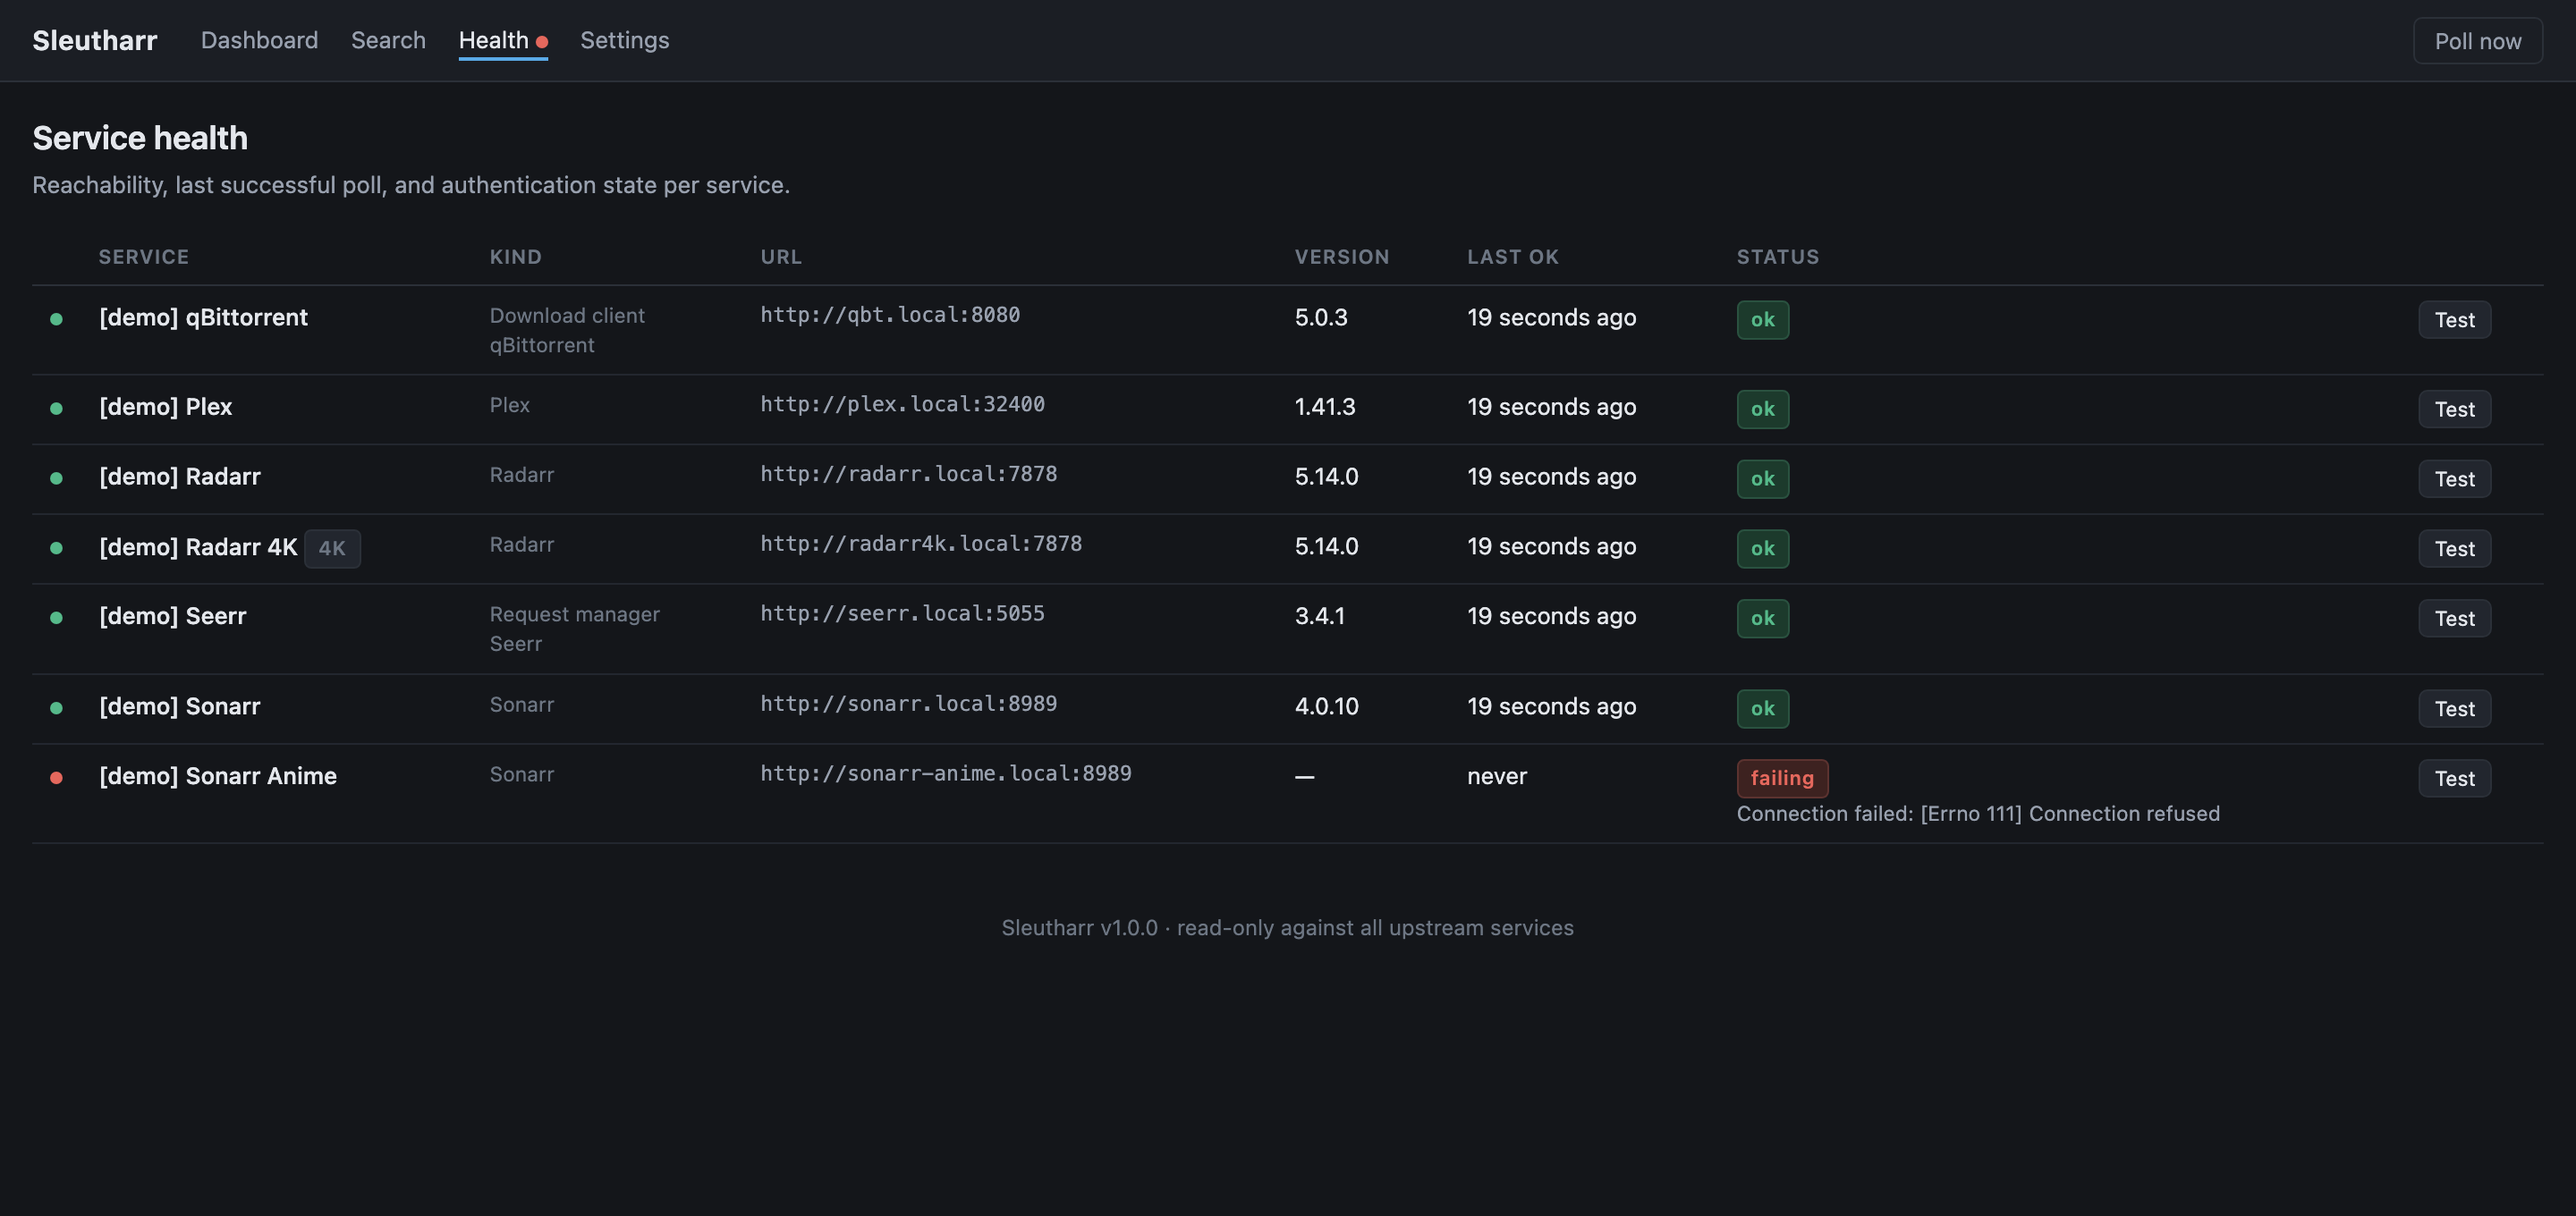
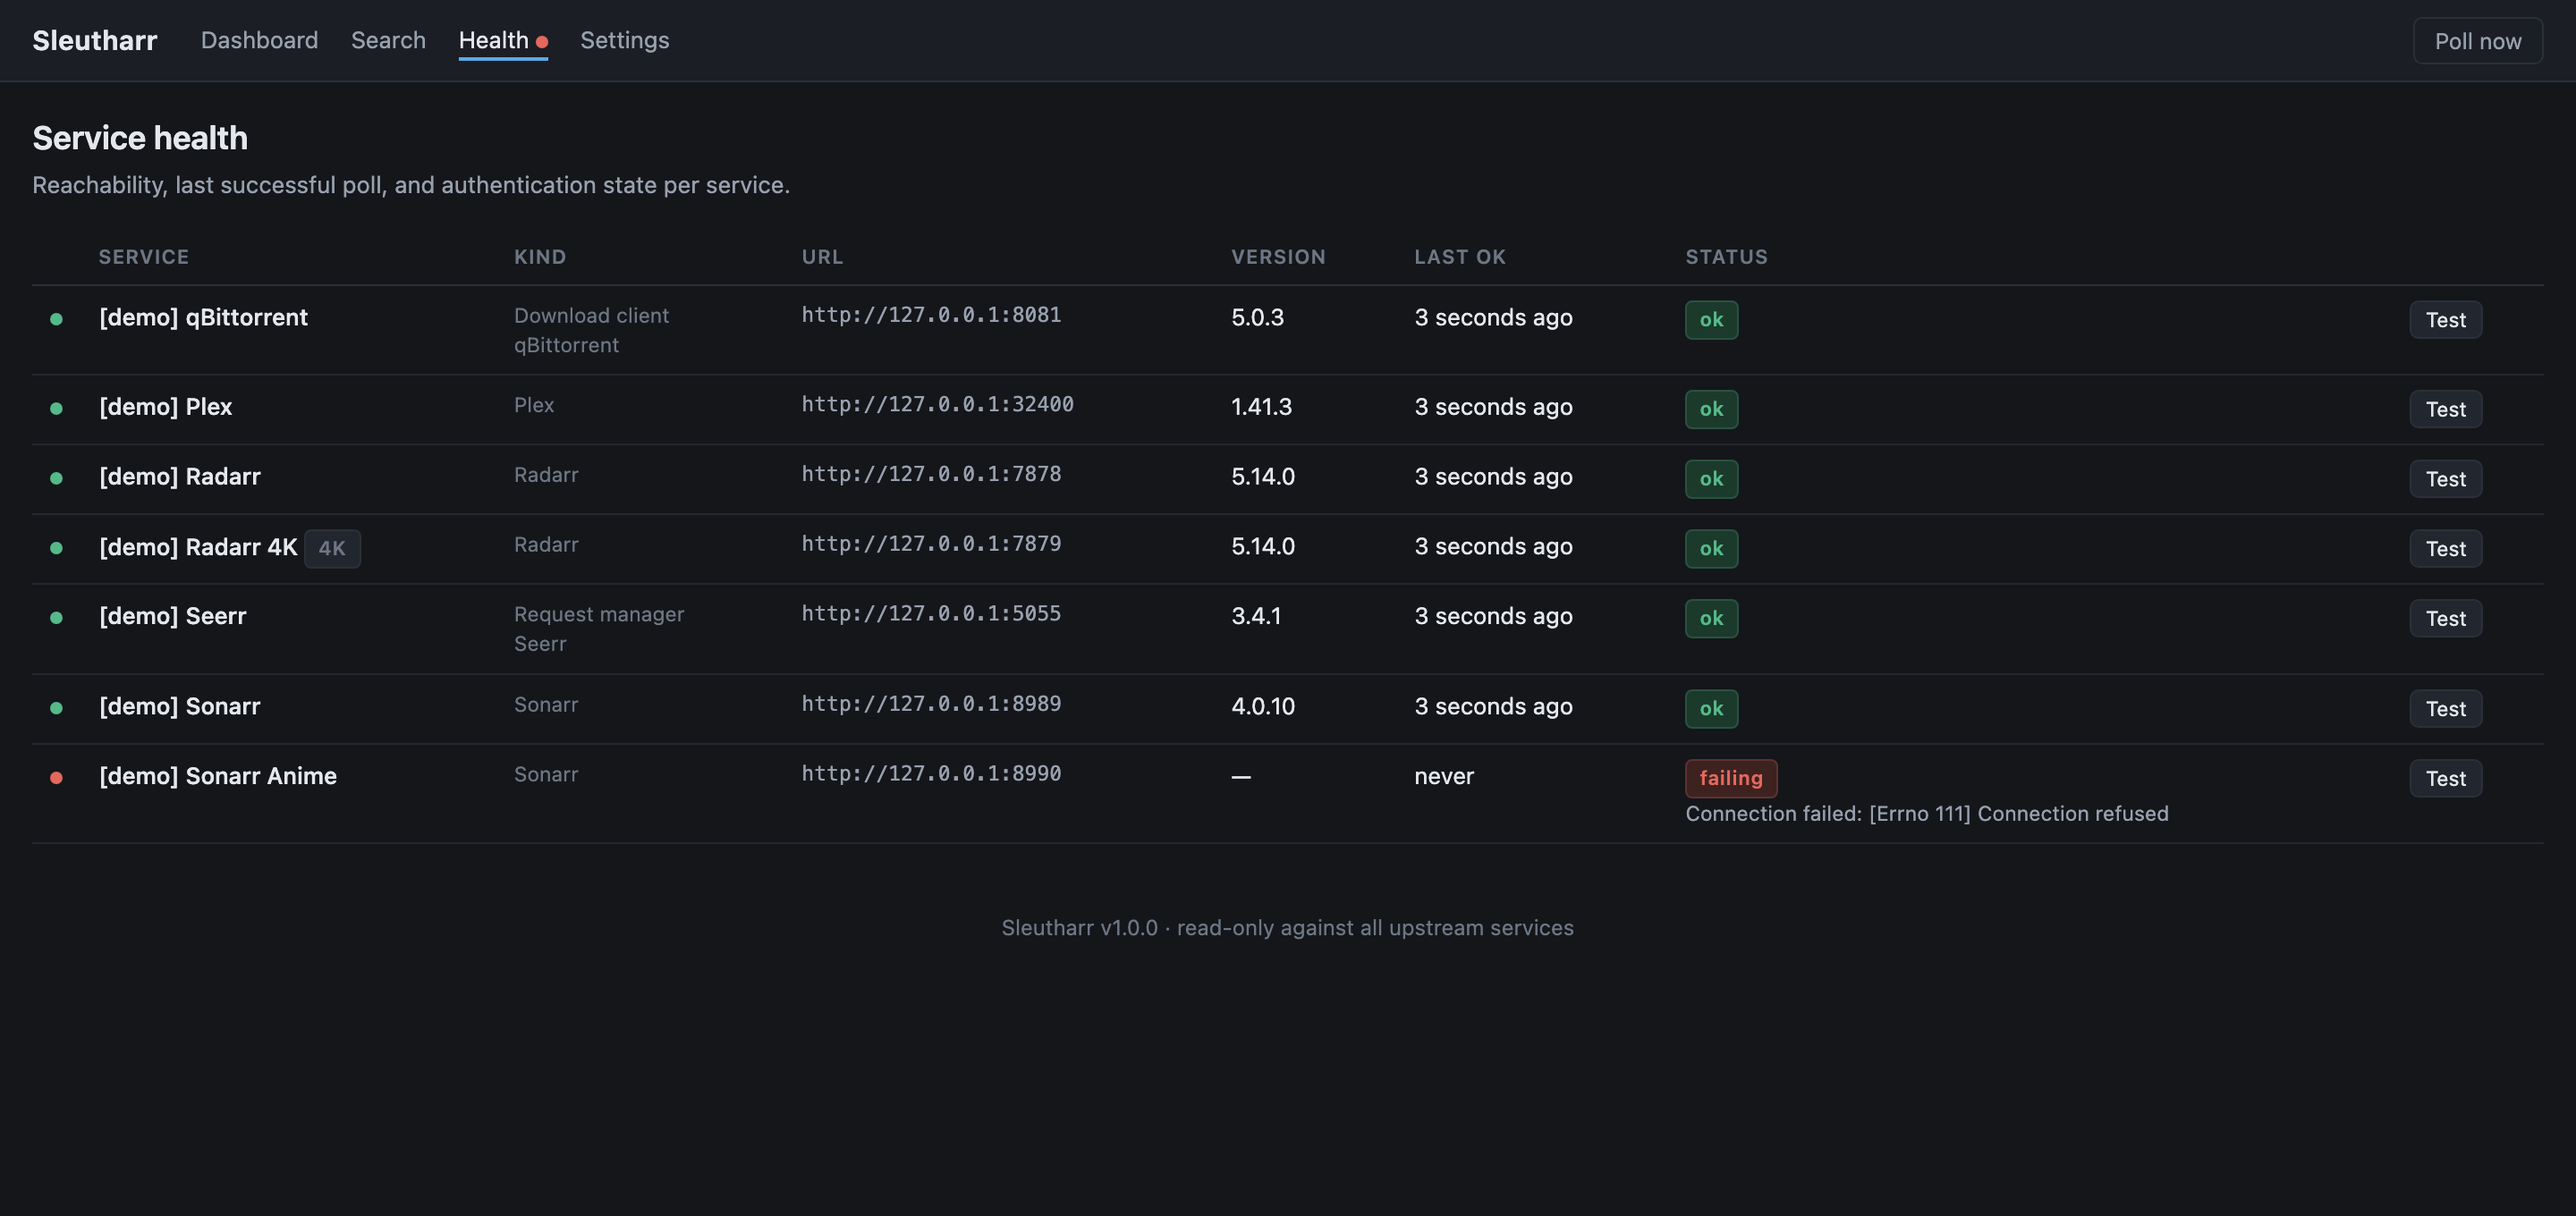
Stop one dead service from stalling the whole poll cycle
Found by timing a cold cycle with every service unreachable: 79s, because a
dead instance was retried far more often than it should have been.

Two causes:

* The first failure backed off for only 2s (2**1). A cycle touches each *arr in
  three separate stages, so every stage retried the same dead host. Backoff now
  has a 30s floor, which guarantees a failed service is skipped for the rest of
  the cycle.
* The per-entity loops swallowed ServiceError and continued, so a dead instance
  was retried once per tracked request. A genuinely missing entity already comes
  back as None (get_entity absorbs 404), so anything reaching those handlers is
  service-level and should fail the service once. Same fix in the Plex loop.

Cold cycle 79s -> 27.8s; a cycle with everything backed off 3.19s -> 0.12s.
Requests and diagnoses survive intact either way.

Connect timeout 10s -> 5s: these services are on the LAN or the same Docker
network, and a short connect timeout is what stops an unreachable host holding
the cycle open.

Also switches seed_demo off .local hostnames, which cost a 5s mDNS lookup per
attempt on macOS and made this look worse than it was, and makes its ids
deterministic -- Python randomises str hashes per process, so re-running the
seeder was duplicating the whole dataset.

diff --git a/core/tests/test_backoff.py b/core/tests/test_backoff.py
@@ -1,0 +1,84 @@
+"""Backoff behaviour.
+
+Regression cover for a cycle-time blowup: a poll cycle touches each *arr in three
+separate stages, so a too-short first backoff let one unreachable host be retried by
+every stage, turning a single dead service into minutes of stalled cycle.
+"""
+
+from __future__ import annotations
+
+from django.test import TestCase
+from django.utils import timezone
+
+from core.clients.base import (
+    MAX_BACKOFF_SECONDS,
+    MIN_BACKOFF_SECONDS,
+    AuthError,
+    BaseClient,
+    ServiceError,
+)
+from core.ingest import due_services
+from core.models import ServiceKind
+from core.tests.factories import make_service
+
+
+class BackoffTests(TestCase):
+    def setUp(self):
+        self.service = make_service(ServiceKind.RADARR, name="Radarr")
+        self.client_ = BaseClient(self.service)
+
+    def test_first_failure_backs_off_at_least_the_floor(self):
+        self.client_.record_failure(ServiceError("boom"))
+        self.service.refresh_from_db()
+        self.assertEqual(self.service.consecutive_failures, 1)
+        remaining = (self.service.backoff_until - timezone.now()).total_seconds()
+        self.assertGreater(remaining, MIN_BACKOFF_SECONDS - 5)
+
+    def test_a_failed_service_is_skipped_for_the_rest_of_the_cycle(self):
+        """The actual bug: stage 2 and 3 must not retry what stage 1 just failed on."""
+        self.client_.record_failure(ServiceError("boom"))
+        self.service.refresh_from_db()
+        self.assertTrue(self.service.is_backed_off())
+        self.assertNotIn(
+            self.service.pk, [s.pk for s in due_services(ServiceKind.RADARR)]
+        )
+
+    def test_backoff_grows_and_is_capped(self):
+        for _ in range(20):
+            self.client_.record_failure(ServiceError("boom"))
+        self.service.refresh_from_db()
+        remaining = (self.service.backoff_until - timezone.now()).total_seconds()
+        self.assertLessEqual(remaining, MAX_BACKOFF_SECONDS + 1)
+
+    def test_auth_failure_backs_off_hard(self):
+        """A wrong API key does not fix itself, and hammering qBittorrent gets you banned."""
+        self.client_.record_failure(AuthError("bad key"))
+        self.service.refresh_from_db()
+        remaining = (self.service.backoff_until - timezone.now()).total_seconds()
+        self.assertGreater(remaining, MAX_BACKOFF_SECONDS - 5)
+
+    def test_success_clears_backoff(self):
+        self.client_.record_failure(ServiceError("boom"))
+        self.client_.record_success(version="5.14.0")
+        self.service.refresh_from_db()
+        self.assertEqual(self.service.consecutive_failures, 0)
+        self.assertIsNone(self.service.backoff_until)
+        self.assertFalse(self.service.is_backed_off())
+        self.assertEqual(self.service.version, "5.14.0")
+
+    def test_a_recovered_service_becomes_due_once_its_interval_elapses(self):
+        """Success clears the backoff but does not bypass normal per-service pacing."""
+        self.client_.record_failure(ServiceError("boom"))
+        self.client_.record_success()
+
+        # Just polled, so not due yet -- that is pacing, not backoff.
+        self.assertNotIn(
+            self.service.pk, [s.pk for s in due_services(ServiceKind.RADARR)]
+        )
+
+        self.service.refresh_from_db()
+        type(self.service).objects.filter(pk=self.service.pk).update(
+            last_attempt_at=timezone.now()
+            - timezone.timedelta(seconds=self.service.poll_interval + 1)
+        )
+        self.assertIn(self.service.pk, [s.pk for s in due_services(ServiceKind.RADARR)])

diff --git a/core/management/commands/seed_demo.py b/core/management/commands/seed_demo.py
@@ -52,33 +52,33 @@ class Command(BaseCommand):
 
         seerr = self._service(
             ServiceKind.REQUEST_MANAGER, "Seerr", ServiceVariant.SEERR,
-            "http://seerr.local:5055", version="3.4.1",
+            "http://127.0.0.1:5055", version="3.4.1",
         )
         radarr = self._service(
             ServiceKind.RADARR, "Radarr", ServiceVariant.NATIVE,
-            "http://radarr.local:7878", version="5.14.0",
+            "http://127.0.0.1:7878", version="5.14.0",
         )
         radarr4k = self._service(
             ServiceKind.RADARR, "Radarr 4K", ServiceVariant.NATIVE,
-            "http://radarr4k.local:7878", version="5.14.0",
+            "http://127.0.0.1:7879", version="5.14.0",
             remote_service_id=1, is_4k=True,
         )
         sonarr = self._service(
             ServiceKind.SONARR, "Sonarr", ServiceVariant.NATIVE,
-            "http://sonarr.local:8989", version="4.0.10",
+            "http://127.0.0.1:8989", version="4.0.10",
         )
         qbt = self._service(
             ServiceKind.DOWNLOAD_CLIENT, "qBittorrent", ServiceVariant.QBITTORRENT,
-            "http://qbt.local:8080", version="5.0.3",
+            "http://127.0.0.1:8081", version="5.0.3",
         )
         plex = self._service(
             ServiceKind.PLEX, "Plex", ServiceVariant.NATIVE,
-            "http://plex.local:32400", version="1.41.3",
+            "http://127.0.0.1:32400", version="1.41.3",
         )
         # One service deliberately broken, so the Health page shows both states.
         self._service(
             ServiceKind.SONARR, "Sonarr Anime", ServiceVariant.NATIVE,
-            "http://sonarr-anime.local:8989", healthy=False,
+            "http://127.0.0.1:8990", healthy=False,
         )
 
         PathMapping.objects.get_or_create(

diff --git a/core/ingest/arr.py b/core/ingest/arr.py
@@ -77,10 +77,11 @@ def _sync_entities_for_service(
             except ServiceError:
                 profiles = {}
             for tracked in requests:
-                try:
-                    _resolve_entity(client, service, tracked, profiles)
-                except ServiceError as exc:
-                    logger.debug("Entity lookup failed for %s: %s", tracked, exc)
+                # ServiceError deliberately propagates. A missing entity already comes
+                # back as None (get_entity swallows 404), so anything reaching here is
+                # service-level -- and retrying it once per tracked request turns one
+                # dead instance into minutes of stalled cycle.
+                _resolve_entity(client, service, tracked, profiles)
         client.record_success()
     except ServiceError as exc:
         client.record_failure(exc)
@@ -198,10 +199,8 @@ def sync_arr_history() -> None:
         try:
             with client:
                 for tracked in requests:
-                    try:
-                        _ingest_entity_history(client, service, tracked)
-                    except ServiceError as exc:
-                        logger.debug("History failed for %s: %s", tracked, exc)
+                    # As above: fail the service once rather than once per request.
+                    _ingest_entity_history(client, service, tracked)
             client.record_success()
         except ServiceError as exc:
             client.record_failure(exc)

diff --git a/core/clients/base.py b/core/clients/base.py
@@ -31,7 +31,14 @@ _locks: dict[int, threading.Lock] = {}
 _locks_guard = threading.Lock()
 
 MAX_BACKOFF_SECONDS = 15 * 60
-CONNECT_TIMEOUT = 10.0
+# Floor, not just a starting point. A poll cycle touches each *arr in three separate
+# stages (entities, history, queue); with a 2s first backoff a dead service is retried by
+# every one of them, so a single unreachable host costs minutes per cycle. The floor
+# guarantees a service that just failed is skipped for the remainder of the cycle.
+MIN_BACKOFF_SECONDS = 30
+# These services are on the LAN or the same Docker network. 5s is generous, and a short
+# connect timeout is what keeps an unreachable host from stalling the whole cycle.
+CONNECT_TIMEOUT = 5.0
 READ_TIMEOUT = 30.0
 
 
@@ -215,7 +222,9 @@ class BaseClient:
         if isinstance(error, ServiceError) and not error.retryable:
             backoff = MAX_BACKOFF_SECONDS
         else:
-            backoff = min(2**failures, MAX_BACKOFF_SECONDS)
+            backoff = min(
+                max(2**failures, MIN_BACKOFF_SECONDS), MAX_BACKOFF_SECONDS
+            )
         now = timezone.now()
         ServiceInstance.objects.filter(pk=self.service.pk).update(
             last_attempt_at=now,

diff --git a/core/ingest/plex.py b/core/ingest/plex.py
@@ -92,10 +92,10 @@ def sync_plex() -> None:
             with client:
                 index = client.build_path_index()
                 for tracked in candidates:
-                    try:
-                        _check_request(client, service, tracked, index, mappings)
-                    except ServiceError as exc:
-                        logger.debug("Plex check failed for %s: %s", tracked, exc)
+                    # ServiceError propagates: a missing item already returns None from
+                    # client.item(), so anything here is service-level and retrying it
+                    # once per candidate would stall the cycle on a dead Plex.
+                    _check_request(client, service, tracked, index, mappings)
             client.record_success()
         except ServiceError as exc:
             client.record_failure(exc)

diff --git a/README.md b/README.md
@@ -220,7 +220,7 @@ Then add it to `RULES` in `core/rules/__init__.py`, in priority order.
 SLEUTHARR_CONFIG_DIR=./config SLEUTHARR_SCHEDULER=0 .venv/bin/python manage.py test core
 ```
 
-89 tests, no live calls — client parsing runs against recorded fixtures in
+95 tests, no live calls — client parsing runs against recorded fixtures in
 `core/tests/fixtures/`, and the ingestion tests use `httpx.MockTransport`. There are no
 test-only dependencies.
 
@@ -258,7 +258,8 @@ no JS build step. htmx is vendored, so the UI needs no outbound internet.
   from the series' history as a whole, not per episode.
 - **The Docker image has not been built in this environment** (no Docker daemon
   available), so the `Dockerfile` and `docker-entrypoint.sh` are unverified by execution.
-  Everything else — migrations, the poll cycle, all 89 tests, and every page — was run.
+  Everything else — migrations, the poll cycle, all 95 tests, and every page under
+  gunicorn — was run.
 - **No live upstream instance was available** during development. All API behaviour was
   verified against upstream OpenAPI schemas and source code rather than a running server;
   see the `[UNVERIFIED-LIVE]` markers in `docs/api-notes.md` for the specific items worth
